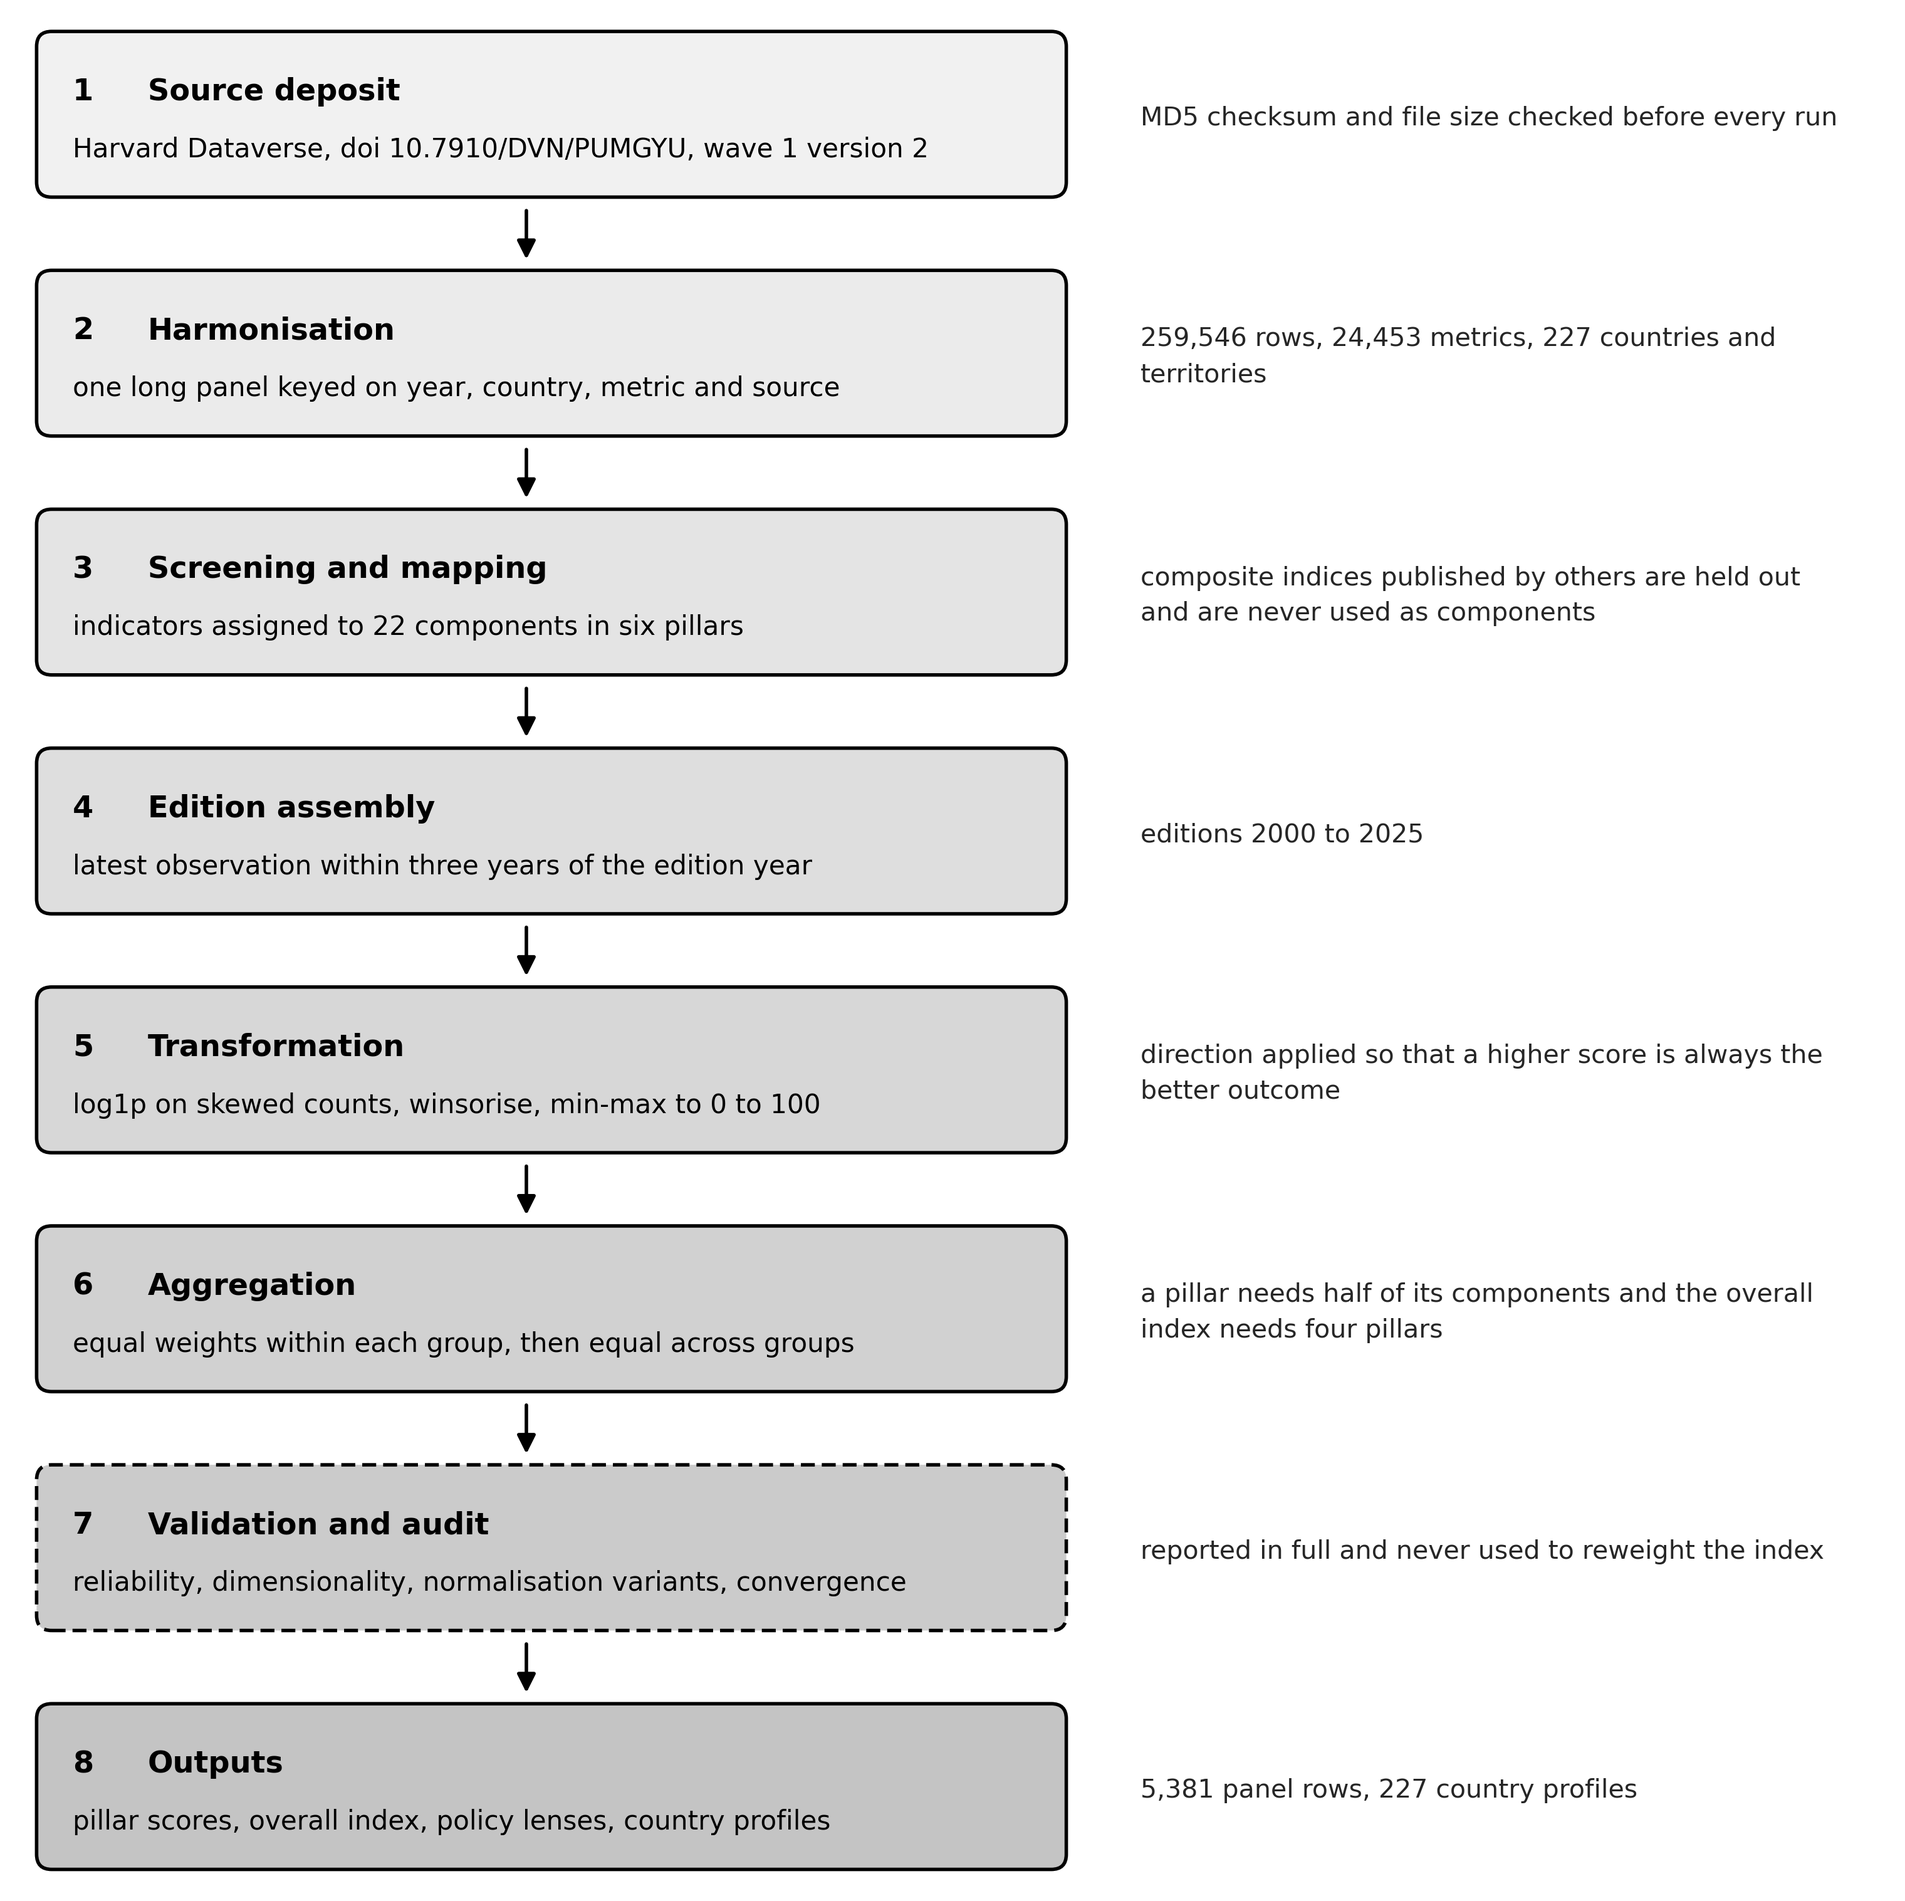
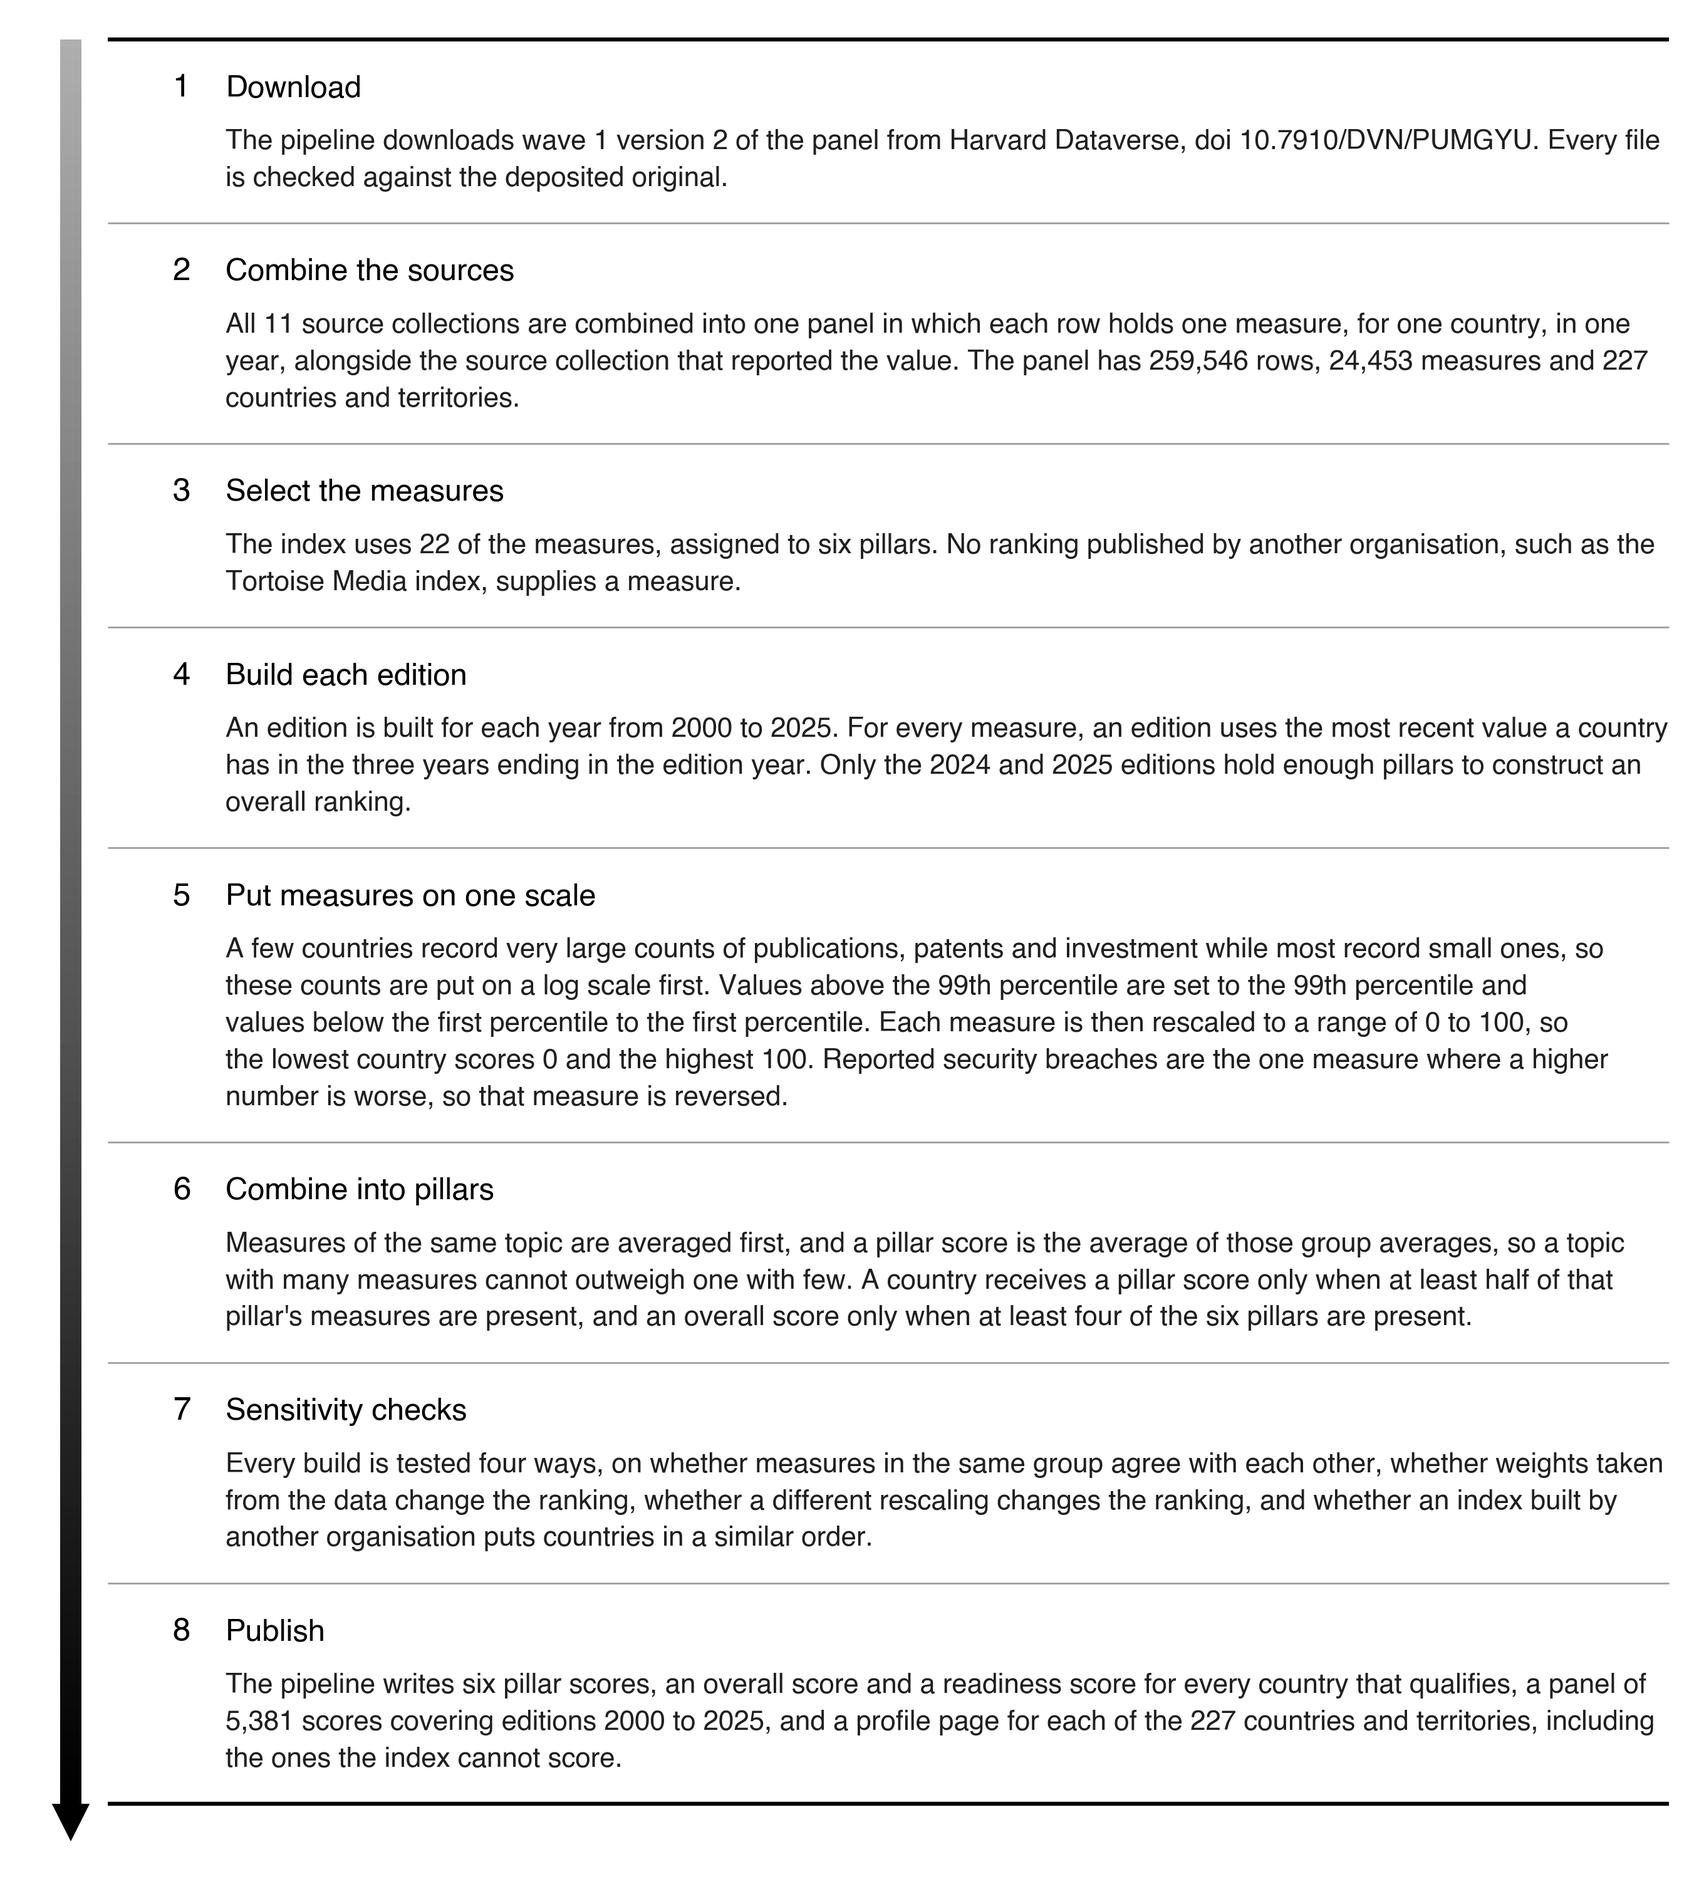
Rebuild the four paper figures
Figure 1 is redrawn as a typographic workflow. The right-hand notes column
is gone and each note is merged into the stage it belonged to, so a stage is
one heading and one paragraph. The boxes are replaced by rules, with a
greyscale spine at the left carrying the direction from deposit to published
index. Stage wording is rewritten in plain academic English throughout, and
stage 4 now records that only the 2024 and 2025 editions hold enough pillars
for an overall ranking.

Figure 4 labels the first panel z-score rather than zscore. The config key
passed to compute_edition is unchanged, so rho stays 0.968 and 0.935 at
n = 65.

All four figures now set in Helvetica rather than the matplotlib default.
Figures 2 and 3 are otherwise untouched. Every figure passes the overlap
audit, and Figure 1 additionally passes a containment check that no text
leaves its stage band.

README gives the four real figure filenames instead of a brace pattern that
expanded to names the script never writes.

diff --git a/paper/make_figures.py b/paper/make_figures.py
@@ -31,7 +31,7 @@ from figure_audit import audit, _area
 
 OUT = ROOT / "paper" / "figures"
 OUT.mkdir(parents=True, exist_ok=True)
-plt.rcParams.update({"font.family": "DejaVu Sans", "font.size": 9,
+plt.rcParams.update({"font.family": "Helvetica", "font.size": 9,
                      "axes.edgecolor": "black", "axes.linewidth": 0.8,
                      "savefig.dpi": 400, "savefig.bbox": "tight"})
 
@@ -39,117 +39,136 @@ plt.rcParams.update({"font.family": "DejaVu Sans", "font.size": 9,
 # Figure 1: the pipeline, deposit to published index
 # ---------------------------------------------------------------------------
 S = [
- ("Source deposit",
-  "Harvard Dataverse, doi 10.7910/DVN/PUMGYU, wave 1 version 2",
-  "MD5 checksum and file size checked before every run"),
- ("Harmonisation",
-  "one long panel keyed on year, country, metric and source",
-  "259,546 rows, 24,453 metrics, 227 countries and territories"),
- ("Screening and mapping",
-  "indicators assigned to 22 components in six pillars",
-  "composite indices published by others are held out and are never used as components"),
- ("Edition assembly",
-  "latest observation within three years of the edition year",
-  "editions 2000 to 2025"),
- ("Transformation",
-  "log1p on skewed counts, winsorise, min-max to 0 to 100",
-  "direction applied so that a higher score is always the better outcome"),
- ("Aggregation",
-  "equal weights within each group, then equal across groups",
-  "a pillar needs half of its components and the overall index needs four pillars"),
- ("Validation and audit",
-  "reliability, dimensionality, normalisation variants, convergence",
-  "reported in full and never used to reweight the index"),
- ("Outputs",
-  "pillar scores, overall index, policy lenses, country profiles",
-  "5,381 panel rows, 227 country profiles"),
+ ("Download",
+  "The pipeline downloads wave 1 version 2 of the panel from Harvard "
+  "Dataverse, doi 10.7910/DVN/PUMGYU. Every file is checked against the "
+  "deposited original."),
+ ("Combine the sources",
+  "All 11 source collections are combined into one panel in which each row "
+  "holds one measure, for one country, in one year, alongside the source "
+  "collection that reported the value. The panel has 259,546 rows, 24,453 "
+  "measures and 227 countries and territories."),
+ ("Select the measures",
+  "The index uses 22 of the measures, assigned to six pillars. No ranking "
+  "published by another organisation, such as the Tortoise Media index, "
+  "supplies a measure."),
+ ("Build each edition",
+  "An edition is built for each year from 2000 to 2025. For every measure, "
+  "an edition uses the most recent value a country has in the three years "
+  "ending in the edition year. Only the 2024 and 2025 editions hold enough "
+  "pillars to construct an overall ranking."),
+ ("Put measures on one scale",
+  "A few countries record very large counts of publications, patents and "
+  "investment while most record small ones, so these counts are put on a log "
+  "scale first. Values above the 99th percentile are set to the 99th "
+  "percentile and values below the first percentile to the first percentile. "
+  "Each measure is then rescaled to a range of 0 to 100, so the lowest "
+  "country scores 0 and the highest 100. Reported security breaches are the "
+  "one measure where a higher number is worse, so that measure is reversed."),
+ ("Combine into pillars",
+  "Measures of the same topic are averaged first, and a pillar score is the "
+  "average of those group averages, so a topic with many measures cannot "
+  "outweigh one with few. A country receives a pillar score only when at "
+  "least half of that pillar's measures are present, and an overall score "
+  "only when at least four of the six pillars are present."),
+ ("Sensitivity checks",
+  "Every build is tested four ways, on whether measures in the same group "
+  "agree with each other, whether weights taken from the data change the "
+  "ranking, whether a different rescaling changes the ranking, and whether "
+  "an index built by another organisation puts countries in a similar order."),
+ ("Publish",
+  "The pipeline writes six pillar scores, an overall score and a readiness "
+  "score for every country that qualifies, a panel of 5,381 scores covering "
+  "editions 2000 to 2025, and a profile page for each of the 227 countries "
+  "and territories, including the ones the index cannot score."),
 ]
 
-W = 7.4
-BX0, BX1 = 0.05, 4.15
-NX0, NX1 = 4.45, 7.35
-PAD = 0.14
-FS_H, FS_B, FS_N = 8.6, 7.6, 7.4
-LH_H, LH_B, LH_N = FS_H*1.4/72, FS_B*1.38/72, FS_N*1.38/72
-GAP = 0.30
+W        = 6.6                  # full text width of the page
+SP0, SP1 = 0.14, 0.225          # the gradient spine that carries direction
+RX0      = 0.33                 # rules and stage text start here
+NX       = 0.66                 # stage number, right aligned
+TX0      = 0.80                 # heading and body, left aligned
+TX1      = W - 0.04
+FS_N, FS_H, FS_B = 9.2, 8.8, 7.9
+LH_H, LH_B = FS_H*1.30/72, FS_B*1.34/72
+PAD_T, PAD_B, GAP_HB = 0.105, 0.125, 0.050
+HEAD_ROOM, FOOT_ROOM = 0.06, 0.26      # above the top rule, below the last
 
 probe = plt.figure(figsize=(W, 10)); probe.canvas.draw()
 rend = probe.canvas.get_renderer()
 
-def wrap(s, avail, fs):
+def wrap(s, avail, fs, weight="normal"):
     """Widest wrap whose longest line fits `avail` inches."""
     for width in range(len(s) + 1, 8, -1):
         lines = textwrap.wrap(s, width)
         longest = max(
-            probe.text(0, 0, ln, fontsize=fs).get_window_extent(rend).width
+            probe.text(0, 0, ln, fontsize=fs, fontweight=weight)
+                 .get_window_extent(rend).width
             for ln in lines) / probe.dpi
         if longest <= avail:
             return lines
     return textwrap.wrap(s, 12)
 
 rows = []
-for head, body, note in S:
-    hl = wrap(head, BX1 - BX0 - 2*PAD - 0.30, FS_H)
-    bl = wrap(body, BX1 - BX0 - 2*PAD - 0.08, FS_B)
-    nl = wrap(note, NX1 - NX0 - 0.08, FS_N)
-    hbox = 2*PAD + len(hl)*LH_H + 0.06 + len(bl)*LH_B
-    rows.append((hl, bl, nl, max(hbox, len(nl)*LH_N + 0.16)))
+for head, body in S:
+    hl = wrap(head, TX1 - TX0, FS_H, "bold")
+    bl = wrap(body, TX1 - TX0, FS_B)
+    rows.append((hl, bl, PAD_T + len(hl)*LH_H + GAP_HB + len(bl)*LH_B + PAD_B))
 plt.close(probe)
 
-H = sum(r[3] for r in rows) + GAP*(len(rows)-1) + 0.06
+H = sum(r[2] for r in rows) + HEAD_ROOM + FOOT_ROOM
 fig = plt.figure(figsize=(W, H))
 ax = fig.add_axes([0, 0, 1, 1])
-ax.set_xlim(0, W); ax.set_ylim(0, H); ax.axis("off")
+ax.set_xlim(0, W); ax.set_ylim(0, H); ax.axis("off"); ax.set_autoscale_on(False)
 
-boxes, inner, notes = [], [], []
-y = H - 0.03
-for i, (hl, bl, nl, bh) in enumerate(rows):
+Y_TOP = H - HEAD_ROOM
+Y_BOT = Y_TOP - sum(r[2] for r in rows)
+
+# spine, pale at the deposit and solid at the published index
+ax.imshow(np.linspace(0.42, 1.00, 512).reshape(-1, 1), cmap="Greys",
+          vmin=0, vmax=1, extent=[SP0, SP1, Y_BOT, Y_TOP], aspect="auto",
+          interpolation="bilinear", zorder=1)
+ax.set_xlim(0, W); ax.set_ylim(0, H)
+ax.add_patch(plt.Polygon([[SP0 - 0.033, Y_BOT], [SP1 + 0.033, Y_BOT],
+                          [(SP0 + SP1)/2, Y_BOT - 0.150]],
+                         closed=True, facecolor="black", edgecolor="none",
+                         zorder=2))
+
+def rule(y, lw, col="black"):
+    ax.plot([RX0, TX1], [y, y], lw=lw, color=col, solid_capstyle="butt",
+            zorder=2, clip_on=False)
+
+rule(Y_TOP, 1.15)
+labels, bands = [], []
+y = Y_TOP
+for i, (hl, bl, bh) in enumerate(rows):
     y1, y0 = y, y - bh
-    shade = 0.945 - 0.175 * (i / (len(rows) - 1))
-    ax.add_patch(FancyBboxPatch(
-        (BX0, y0), BX1 - BX0, bh,
-        boxstyle="round,pad=0.004,rounding_size=0.06",
-        linewidth=1.0, edgecolor="black", facecolor=str(shade),
-        linestyle=(0, (4, 2)) if i == 6 else "solid"))
-    boxes.append((BX0, y0, BX1, y1))
-
-    ty = y1 - PAD - LH_H*0.78
-    inner.append((i, ax.text(BX0 + PAD, ty, f"{i+1}", fontsize=FS_H,
-                             fontweight="bold", va="baseline", ha="left")))
+    bands.append((y0, y1))
+    ty = y1 - PAD_T - LH_H*0.76
+    labels.append((i, ax.text(NX, ty, str(i + 1), fontsize=FS_N,
+                              fontweight="bold", va="baseline", ha="right")))
     for j, ln in enumerate(hl):
-        inner.append((i, ax.text(BX0 + PAD + 0.30, ty - j*LH_H, ln,
-                                 fontsize=FS_H, fontweight="bold",
-                                 va="baseline", ha="left")))
-    ty -= len(hl)*LH_H + 0.06
+        labels.append((i, ax.text(TX0, ty - j*LH_H, ln, fontsize=FS_H,
+                                  fontweight="bold", va="baseline",
+                                  ha="left")))
+    ty -= len(hl)*LH_H + GAP_HB
     for j, ln in enumerate(bl):
-        inner.append((i, ax.text(BX0 + PAD, ty - j*LH_B, ln, fontsize=FS_B,
-                                 va="baseline", ha="left")))
-
-    ny = (y0 + y1)/2 + (len(nl)-1)*LH_N/2 - LH_N*0.30
-    for j, ln in enumerate(nl):
-        notes.append(ax.text(NX0, ny - j*LH_N, ln, fontsize=FS_N,
-                             va="baseline", ha="left", color="0.15"))
-
-    if i < len(rows) - 1:
-        ax.add_patch(FancyArrowPatch((2.0, y0 - 0.03), (2.0, y0 - GAP + 0.02),
-                                     arrowstyle="-|>", mutation_scale=11,
-                                     linewidth=1.0, color="black"))
-    y = y0 - GAP
+        labels.append((i, ax.text(TX0, ty - j*LH_B, ln, fontsize=FS_B,
+                                  va="baseline", ha="left", color="0.12")))
+    rule(y0, 1.15 if i == len(rows) - 1 else 0.5,
+         "black" if i == len(rows) - 1 else "0.62")
+    y = y0
 
 bad = audit(fig, "figure 1", text_vs_patch=False)
 fig.canvas.draw(); rr = fig.canvas.get_renderer()
-def bpx(b):
-    (X0, Y0), (X1, Y1) = ax.transData.transform([[b[0], b[1]], [b[2], b[3]]])
+def bpx(x0, y0, x1, y1):
+    (X0, Y0), (X1, Y1) = ax.transData.transform([[x0, y0], [x1, y1]])
     return Bbox([[X0, Y0], [X1, Y1]])
-for i, t in inner:
-    b, B = t.get_window_extent(rr), bpx(boxes[i])
-    if not (b.x0 >= B.x0-1 and b.x1 <= B.x1+1 and b.y0 >= B.y0-1 and b.y1 <= B.y1+1):
-        bad.append(f"box {i+1} text escapes its box: {t.get_text()[:44]!r}")
-for t in notes:
-    b = t.get_window_extent(rr)
-    for k, bx in enumerate(boxes):
-        if _area(b, bpx(bx)) > 1:
-            bad.append(f"note over box {k+1}: {t.get_text()[:44]!r}")
+for i, t in labels:
+    b, B = t.get_window_extent(rr), bpx(RX0, bands[i][0], TX1, bands[i][1])
+    if not (b.x0 >= B.x0-1 and b.x1 <= B.x1+1
+            and b.y0 >= B.y0-1 and b.y1 <= B.y1+1):
+        bad.append(f"stage {i+1} text leaves its band: {t.get_text()[:44]!r}")
 print("[figure 1 containment]", "OVERLAPS" if bad else "clean",
       *("\n    " + x for x in bad))
 
@@ -221,6 +240,7 @@ fig.savefig(OUT / "figure3_pillar_coverage.png"); plt.close(fig)
 ov_id = cfg["overall"]["id"]
 base = IX.aggregate_indices(pil25, cfg)[ov_id]
 variants = {}
+VNAME = {"zscore": "z-score", "percentile": "percentile"}
 for m in ("zscore", "percentile"):
     variants[m] = IX.aggregate_indices(IX.compute_edition(df, cfg, 2025, m), cfg)[ov_id]
 fig, axes = plt.subplots(1, 2, figsize=(6.6, 3.3), sharey=True)
@@ -231,7 +251,7 @@ for ax, (m, s) in zip(axes, variants.items()):
     ax.plot([0, 66], [0, 66], color="black", lw=0.7, ls=(0, (4, 3)))
     ax.scatter(ra, rb, s=15, facecolor="0.55", edgecolor="black", linewidth=0.5)
     ax.set_xlabel("Rank, headline min-max")
-    ax.set_title(f"{m} normalisation\nSpearman rho = {rho:.3f}  (n = {len(j)})",
+    ax.set_title(f"{VNAME[m]} normalisation\nSpearman rho = {rho:.3f}  (n = {len(j)})",
                  fontsize=8.5)
     ax.set_xlim(0, 67); ax.set_ylim(0, 67)
     for sp in ("top", "right"): ax.spines[sp].set_visible(False)
@@ -242,4 +262,4 @@ print("cliff totals", mat.sum(axis=0).tolist())
 print("pillar totals", pm.sum(axis=0).tolist())
 for m, s in variants.items():
     j = pd.concat([base, s], axis=1, keys=["a","b"]).dropna()
-    print(m, "n =", len(j), "rho =", round(j["a"].corr(j["b"], method="spearman"), 4))
+    print(VNAME[m], "n =", len(j), "rho =", round(j["a"].corr(j["b"], method="spearman"), 4))

diff --git a/README.md b/README.md
@@ -295,7 +295,10 @@ panel and index config, in black and white.
 
 ```bash
 python -m gaid_pipeline indices     # figures read indices + the canonical panel
-python paper/make_figures.py        # -> paper/figures/figure{1,2,3,4}.png
+python paper/make_figures.py        # -> paper/figures/figure1_workflow.png
+                                    #    figure2_coverage_cliff.png
+                                    #    figure3_pillar_coverage.png
+                                    #    figure4_rank_stability.png
 ```
 
 `paper/figure_audit.py` is a bounding-box overlap check. `make_figures.py` calls
